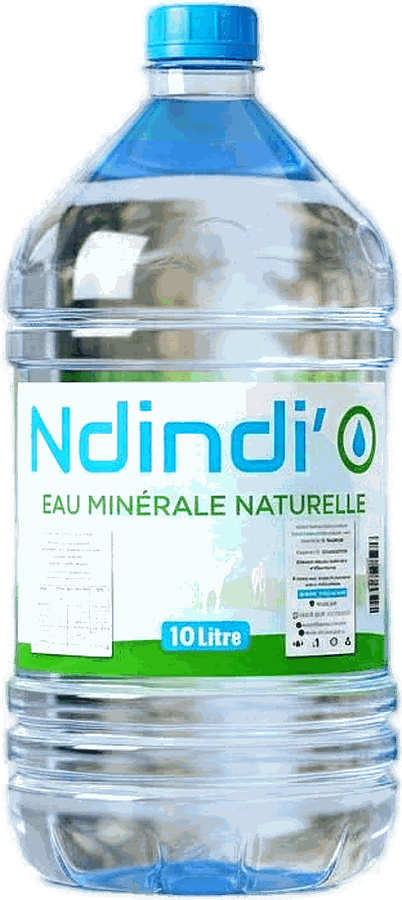
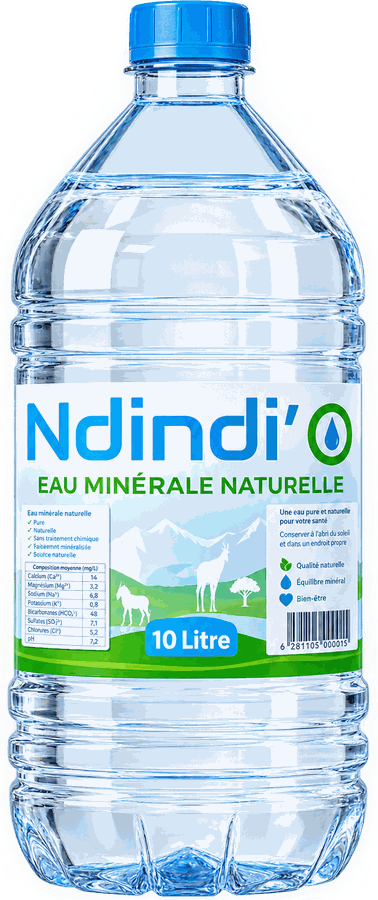
fix(formats): 10 L sur bouteille 10L OK.png
Quatrieme et derniere source pour ce format. Detouree avec un vrai canal
alpha en 1024x1536, soit le meme cadrage et la meme resolution que le
350 ml et le 1,5 L. L'eau est claire, sans la teinte verdatre que les
versions sur fond blanc laissaient apparaitre par transparence.

diff --git a/README.md b/README.md
@@ -77,7 +77,7 @@ bouteille flotte sur la carte, sans cadre ni fond, avec une simple ombre portée
 |---|---|---|---|
 | `produit-350.png` | 350 ml | `images/New/petit modele.png` | 200 px |
 | `produit-15l.png` | 1,5 L | `images/New/modele moyen.png` | 325 px |
-| `produit-10l.png` | 10 L | `images/New/ndindi_eau_claire_transparent.png` | 400 px |
+| `produit-10l.png` | 10 L | `images/New/bouteille 10L OK.png` | 400 px |
 
 Les hauteurs reproduisent l'échelle réelle entre les contenants, les trois
 reposant sur une ligne de base commune.
@@ -89,11 +89,14 @@ semi-transparent bien plus large que la bouteille. Un `getbbox()` naïf garde ce
 halo et fait paraître la bouteille deux fois plus étroite qu'elle ne devrait dans
 son cadre. Le recadrage se fait sur les pixels d'alpha > 10.
 
-Le 10 L arrive détouré avec un vrai canal alpha, aucun traitement n'est
-nécessaire. Deux versions antérieures ont été écartées&nbsp;: `grand modele.jfif`
-et `modele 10L.png`, tous deux sur fond blanc opaque, dont le détourage laissait
-apparaître par transparence le décor vert de la prise de vue d'origine. L'eau du
-bidon y tirait sur le vert, en rupture avec les deux autres formats.
+Le 10 L a demandé quatre essais. `grand modele.jfif` puis `modele 10L.png`
+arrivaient sur fond blanc opaque, et leur détourage laissait apparaître par
+transparence le décor vert de la prise de vue d'origine : l'eau du bidon tirait
+sur le vert, en rupture avec les deux autres formats.
+`ndindi_eau_claire_transparent.png` corrigeait la teinte mais restait en
+720×781. La version retenue, `bouteille 10L OK.png`, arrive détourée avec un
+vrai canal alpha en 1024×1536, soit le même cadrage et la même résolution que
+les deux autres formats.
 
 Les découpes précédentes, issues de l'affiche Korité puis de la photo de bureau,
 ont été remplacées. `b2.jpg` et `pack-350.png` ont été retirés du site.
@@ -122,7 +125,7 @@ Nouveau lot fourni par la marque, rangé dans `images/New/`.
 | `logo-ndindi.jpg` | En-tête, pied de page et icône des 7 pages | `images/New/LOGO250-150x150.jpg` |
 | `produit-350.png` | Carte 350 ml | `images/New/petit modele.png`, détouré |
 | `produit-15l.png` | Carte 1,5 L | `images/New/modele moyen.png`, détouré |
-| `produit-10l.png` | Carte 10 L | `images/New/ndindi_eau_claire_transparent.png` |
+| `produit-10l.png` | Carte 10 L | `images/New/bouteille 10L OK.png`, détouré |
 | `agents-commerciaux.jpg` | Distribution, « Vos agents commerciaux » | commerciaux |
 
 Trois vidéos ont rejoint la médiathèque, dans `assets/video/` : `tapis-roulant.mp4`
